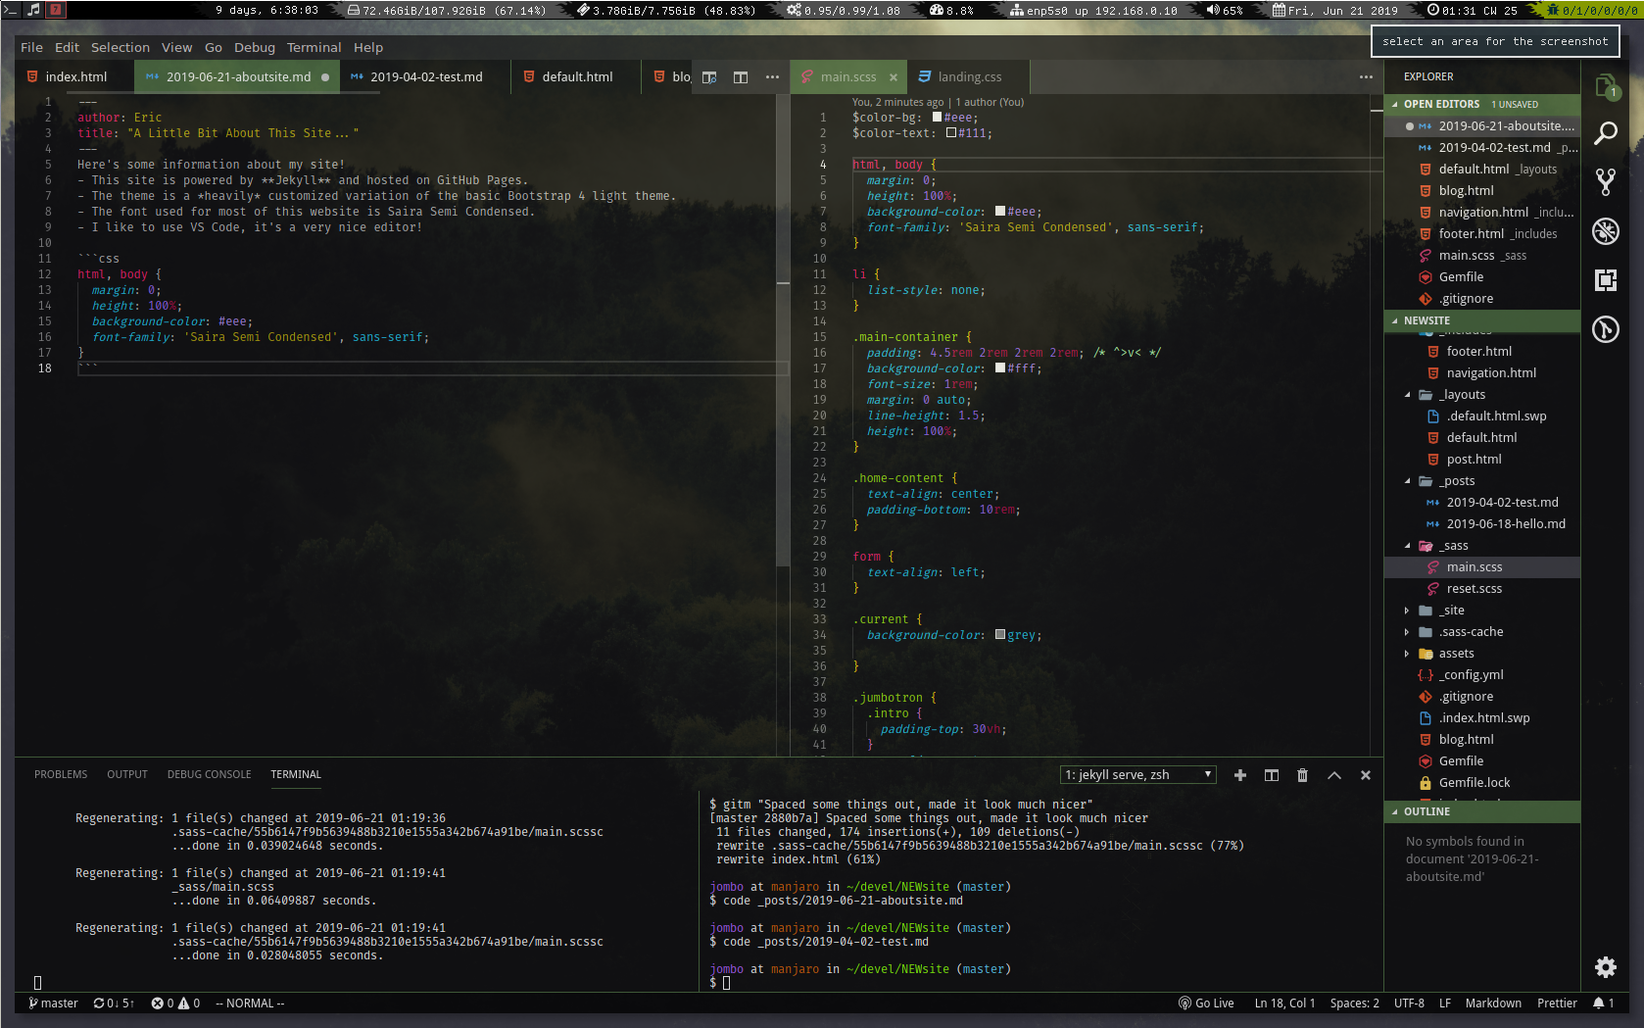
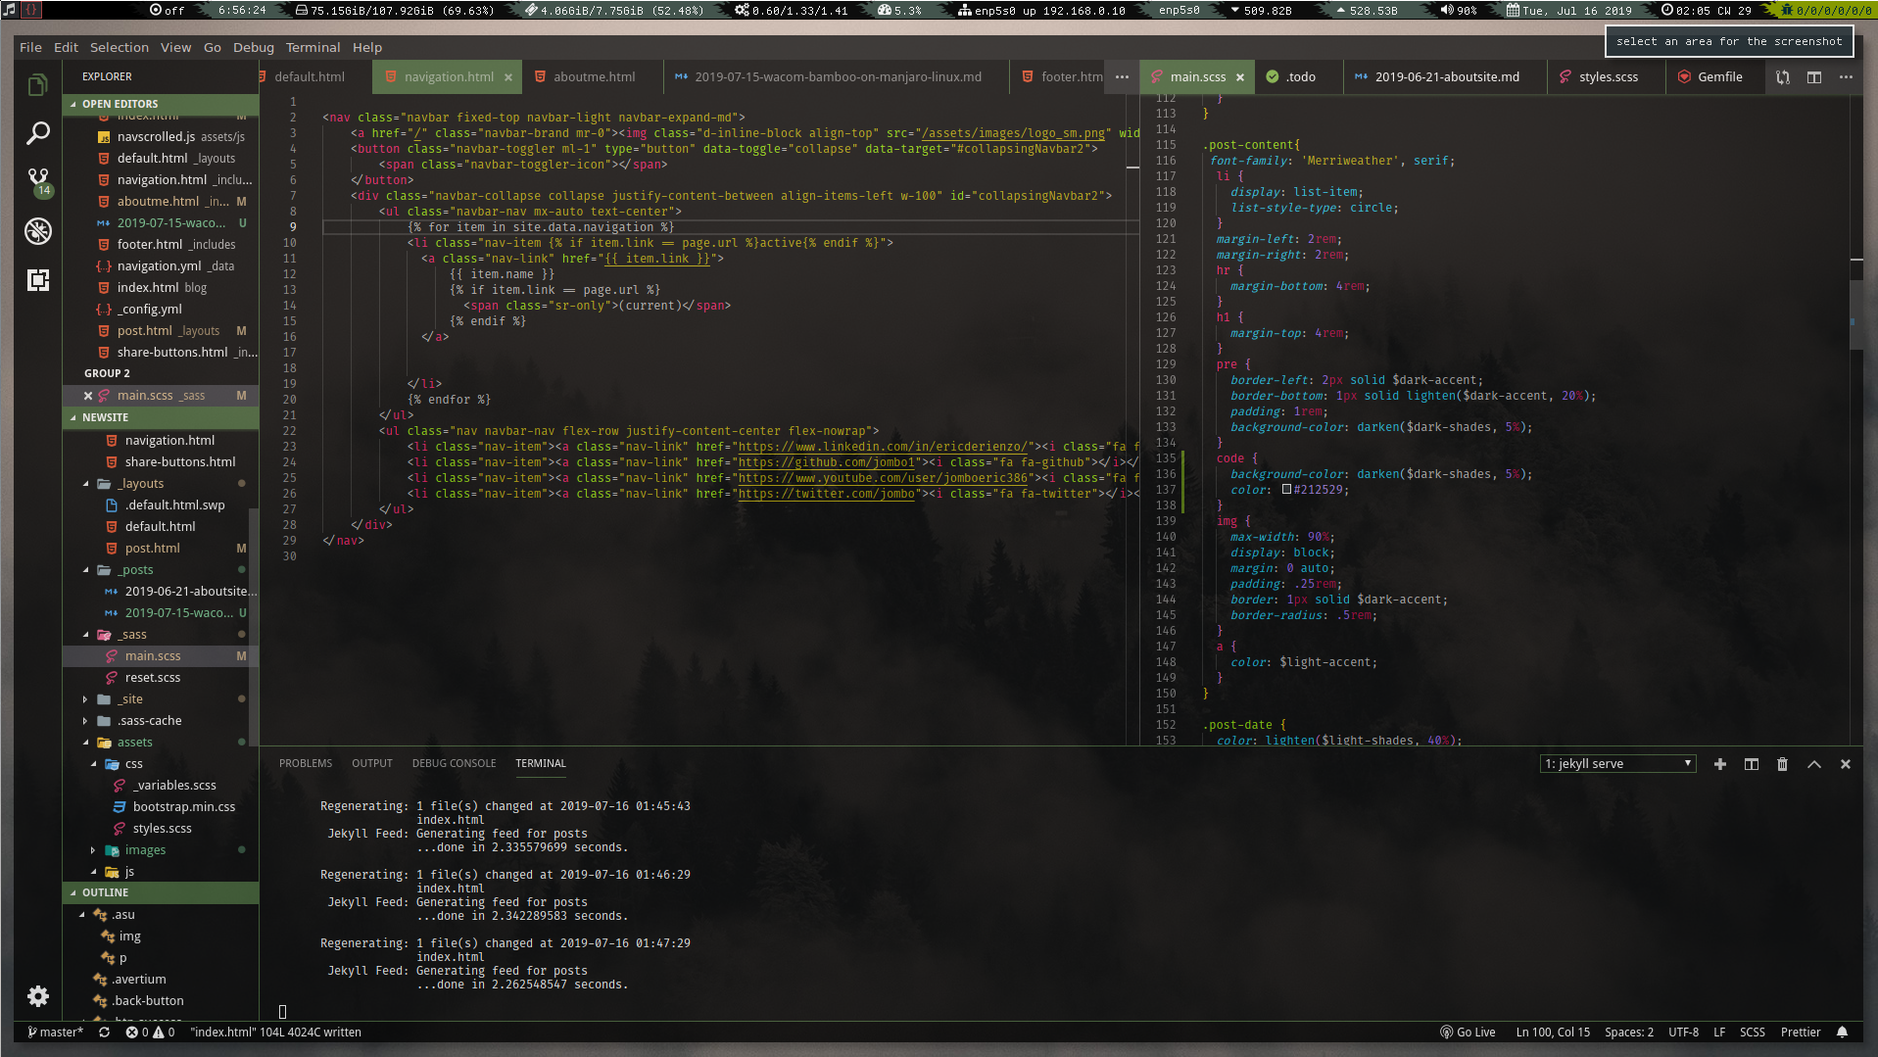
Added blog post, changed my title

diff --git a/_site/2019/07/15/wacom-bamboo-on-manjaro-linux.html b/_site/2019/07/15/wacom-bamboo-on-manjaro-linux.html
@@ -2,7 +2,7 @@
 <html lang="en">
 <head>
   <meta charset="UTF-8" name="viewport" content="width=device-width, initial-scale=1">
-  <title>A Little Bit About This Site...</title>
+  <title>Configuring Wacom Tablets on Manjaro i3 Linux</title>
   <link rel="shortcut icon" href="/assets/images/favicon.ico" type="image/x-icon">
   <link rel="icon" href="/assets/images/favicon.ico" type="image/x-icon">
   <link href="https://fonts.googleapis.com/css?family=Saira+Semi+Condensed|Merriweather&display=swap" rel="stylesheet"> 
@@ -11,20 +11,20 @@
   <link rel="stylesheet" type="text/css" href="/assets/css/styles.css">
   <link type="application/atom+xml" rel="alternate" href="http://localhost:4000/feed.xml" title="NEWsite" />
   <!-- Begin Jekyll SEO tag v2.5.0 -->
-<title>A Little Bit About This Site… | NEWsite</title>
+<title>Configuring Wacom Tablets on Manjaro i3 Linux | NEWsite</title>
 <meta name="generator" content="Jekyll v3.8.5" />
-<meta property="og:title" content="A Little Bit About This Site…" />
+<meta property="og:title" content="Configuring Wacom Tablets on Manjaro i3 Linux" />
 <meta name="author" content="Eric" />
 <meta property="og:locale" content="en_US" />
-<meta name="description" content="As an introduction to having the website up, here’s some information about this site!" />
-<meta property="og:description" content="As an introduction to having the website up, here’s some information about this site!" />
-<link rel="canonical" href="http://localhost:4000/2019/06/21/aboutsite.html" />
-<meta property="og:url" content="http://localhost:4000/2019/06/21/aboutsite.html" />
+<meta name="description" content="For anyone who loves digital painting and Linux, it can be quite disheartening knowing neither Wacom or Adobe have official Linux support. Fear not however, with just a little bit of configuration you can have the perfect setup going." />
+<meta property="og:description" content="For anyone who loves digital painting and Linux, it can be quite disheartening knowing neither Wacom or Adobe have official Linux support. Fear not however, with just a little bit of configuration you can have the perfect setup going." />
+<link rel="canonical" href="http://localhost:4000/2019/07/15/wacom-bamboo-on-manjaro-linux.html" />
+<meta property="og:url" content="http://localhost:4000/2019/07/15/wacom-bamboo-on-manjaro-linux.html" />
 <meta property="og:site_name" content="NEWsite" />
 <meta property="og:type" content="article" />
-<meta property="article:published_time" content="2019-06-21T00:00:00-07:00" />
+<meta property="article:published_time" content="2019-07-15T00:00:00-07:00" />
 <script type="application/ld+json">
-{"author":{"@type":"Person","name":"Eric"},"description":"As an introduction to having the website up, here’s some information about this site!","@type":"BlogPosting","dateModified":"2019-06-21T00:00:00-07:00","datePublished":"2019-06-21T00:00:00-07:00","headline":"A Little Bit About This Site…","url":"http://localhost:4000/2019/06/21/aboutsite.html","mainEntityOfPage":{"@type":"WebPage","@id":"http://localhost:4000/2019/06/21/aboutsite.html"},"@context":"http://schema.org"}</script>
+{"author":{"@type":"Person","name":"Eric"},"description":"For anyone who loves digital painting and Linux, it can be quite disheartening knowing neither Wacom or Adobe have official Linux support. Fear not however, with just a little bit of configuration you can have the perfect setup going.","@type":"BlogPosting","dateModified":"2019-07-15T00:00:00-07:00","datePublished":"2019-07-15T00:00:00-07:00","headline":"Configuring Wacom Tablets on Manjaro i3 Linux","url":"http://localhost:4000/2019/07/15/wacom-bamboo-on-manjaro-linux.html","mainEntityOfPage":{"@type":"WebPage","@id":"http://localhost:4000/2019/07/15/wacom-bamboo-on-manjaro-linux.html"},"@context":"http://schema.org"}</script>
 <!-- End Jekyll SEO tag -->
 
 </head>
@@ -70,35 +70,53 @@
     <div class="row justify-content-center">
   <div class="col-md-8 main-container">
     <div class="post-content">
-      <h1>A Little Bit About This Site...</h1>
+      <h1>Configuring Wacom Tablets on Manjaro i3 Linux</h1>
       <hr />
 
-      <p>As an introduction to having the website up, here’s some information about this site!</p>
+      <p>For anyone who loves digital painting and Linux, it can be quite disheartening knowing neither Wacom or Adobe have official Linux support. Fear not however, with just a little bit of configuration you can have the perfect setup going.</p>
 
-<ul>
-  <li>This site is powered by <a href="https://jekyllrb.com/">Jekyll</a> and hosted on GitHub Pages.</li>
-  <li>This site uses a heavily customized Bootstrap 4 theme. Might upload later.</li>
-  <li>The font used for most of this website is <em>Saira Semi Condensed</em>. The blog section uses <em>Merriweather</em>.</li>
-  <li>I like to use VS Code.</li>
-</ul>
+<p>In this guide I will be using a Bamboo Pen CTL-460 on Manjaro i3 and Krita as the drawing software.</p>
+<h4 id="configuring-the-wacom-tablet">Configuring the Wacom tablet</h4>
+<p>Wacom tablets are configured using <code class="highlighter-rouge">xsetwacom</code>, which you get can get by installing <a href="https://www.archlinux.org/packages/extra/x86_64/xf86-input-wacom/">xf86-input-wacom</a>. You may need to restart your computer for it to work. To make sure your tablet is plugged in and recognized open the terminal and run</p>
+<div class="language-bash highlighter-rouge"><div class="highlight"><pre class="highlight"><code>xsetwacom <span class="nt">--list</span> devices
+</code></pre></div></div>
+<p>Your output should look something like this:</p>
+<div class="highlighter-rouge"><div class="highlight"><pre class="highlight"><code>Wacom Bamboo Pen Pen stylus     	id: 8	  type: STYLUS    
+Wacom Bamboo Pen Pen eraser     	id: 14	type: ERASER  
+</code></pre></div></div>
+<p>Here we see the name of the devices, the id, and the types <code class="highlighter-rouge">STYLUS</code> and <code class="highlighter-rouge">ERASER</code>. Both will need to be configured to get the pen working properly.</p>
 
-<h4 id="heres-a-screenshot-of-my-development-environment">Here’s a screenshot of my development environment:</h4>
-<p><a href="/assets/images/screeny.png"><img src="/assets/images/screeny.png" alt="Screenshot" title="Screenshot" /></a></p>
+<p>For those with dual monitor setups you’ll want to confine your tablet area to a single monitor. You can do this by entering</p>
+<div class="highlighter-rouge"><div class="highlight"><pre class="highlight"><code>xsetwacom set "[name]" MapToOutput [monitor]
+</code></pre></div></div>
+<p>For example, my commands were</p>
+<div class="highlighter-rouge"><div class="highlight"><pre class="highlight"><code>xsetwacom set "Wacom Bamboo Pen Pen stylus" MapToOutput DVI-0
+xsetwacom set "Wacom Bamboo Pen Pen eraser" MapToOutput DVI-0
+</code></pre></div></div>
+<p>If you don’t know your monitors’ names, use <code class="highlighter-rouge">xrandr</code> to find out.</p>
 
-<p>More posts to come!</p>
+<p>Whatever settings you make won’t persist upon restart, so I recommend creating a shell script with all your configurations, then adding it to <code class="highlighter-rouge">~/.xprofile</code> or whatever your autostart script is. In my case I just put the above 2 configuration lines in a file called <code class="highlighter-rouge">setwacom.sh</code>, then set execute permissions on the script with <code class="highlighter-rouge">chmod u+x ~/setwacom.sh</code> and then added “<code class="highlighter-rouge">~/setwacom.sh &amp;</code>” to the file <code class="highlighter-rouge">~/.xprofile</code> (I had to create this file since it’s not there by default).</p>
+
+<p>Use <code class="highlighter-rouge">xsetwacom get [id] all</code> to list all configurable settings for that device.</p>
+
+<p>For more information on configuring your tablet see the <a href="https://wiki.archlinux.org/index.php/Wacom_tablet">Arch Wiki article</a> on it.</p>
+
+<p>The next article will be about how I set up Krita for digital painting.</p>
+
+<p><a href="/assets/images/drawing.png"><img src="/assets/images/drawing.png" alt="Krita Drawing" title="Krita Drawing" /></a></p>
 
 
       <hr />
     </div>
 
-    <h5>Posted 21 Jun 2019</h5>
+    <h5>Posted 15 Jul 2019</h5>
 
     <div class="sharebuttons">
     <div>
       <h5 class="sharetitle">Share this:</h5>
     </div>
     <div class="reddit">
-      <a href="http://www.reddit.com/submit?url=http://localhost:4000/2019/06/21/aboutsite.html&title=A%20Little%20Bit%20About%20This%20Site..." 
+      <a href="http://www.reddit.com/submit?url=http://localhost:4000/2019/07/15/wacom-bamboo-on-manjaro-linux.html&title=Configuring%20Wacom%20Tablets%20on%20Manjaro%20i3%20Linux" 
         rel="nofollow" 
         target="_blank"
         title="Share on Reddit">
@@ -106,14 +124,14 @@
       </a>
     </div>
     <div class="googleplus">
-      <a href="https://plus.google.com/share?url=http://localhost:4000/2019/06/21/aboutsite.html" 
+      <a href="https://plus.google.com/share?url=http://localhost:4000/2019/07/15/wacom-bamboo-on-manjaro-linux.html" 
         rel="nofollow" target="_blank" 
         title="Share on Google+">
         <svg role="img" viewBox="0 0 24 24" xmlns="http://www.w3.org/2000/svg"><title>Google+ icon</title><path d="M7.635 10.909v2.619h4.335c-.173 1.125-1.31 3.295-4.331 3.295-2.604 0-4.731-2.16-4.731-4.823 0-2.662 2.122-4.822 4.728-4.822 1.485 0 2.479.633 3.045 1.178l2.073-1.994c-1.33-1.245-3.056-1.995-5.115-1.995C3.412 4.365 0 7.785 0 12s3.414 7.635 7.635 7.635c4.41 0 7.332-3.098 7.332-7.461 0-.501-.054-.885-.12-1.265H7.635zm16.365 0h-2.183V8.726h-2.183v2.183h-2.182v2.181h2.184v2.184h2.189V13.09H24"/></svg>
       </a>
     </div>
     <div class="twitter">
-      <a href="https://twitter.com/intent/tweet?via=jombo&url=http://localhost:4000/2019/06/21/aboutsite.html&text=A%20Little%20Bit%20About%20This%20Site..." 
+      <a href="https://twitter.com/intent/tweet?via=jombo&url=http://localhost:4000/2019/07/15/wacom-bamboo-on-manjaro-linux.html&text=Configuring%20Wacom%20Tablets%20on%20Manjaro%20i3%20Linux" 
         rel="nofollow" 
         target="_blank"
         title="Share on Twitter">
@@ -121,7 +139,7 @@
       </a>
     </div>
     <div class="linkedin">
-      <a href="https://www.linkedin.com/shareArticle?mini=true&url=http://localhost:4000/2019/06/21/aboutsite.html&title=A%20Little%20Bit%20About%20This%20Site..." 
+      <a href="https://www.linkedin.com/shareArticle?mini=true&url=http://localhost:4000/2019/07/15/wacom-bamboo-on-manjaro-linux.html&title=Configuring%20Wacom%20Tablets%20on%20Manjaro%20i3%20Linux" 
         rel="nofollow" 
         target="_blank"
         title="Share on LinkedIn">
@@ -129,7 +147,7 @@
       </a>
     </div>
     <div class="facebook">
-      <a href="https://facebook.com/sharer.php?u=http://localhost:4000/2019/06/21/aboutsite.html" 
+      <a href="https://facebook.com/sharer.php?u=http://localhost:4000/2019/07/15/wacom-bamboo-on-manjaro-linux.html" 
         rel="nofollow" 
         target="_blank" 
         title="Share on Facebook">

diff --git a/_site/index.html b/_site/index.html
@@ -15,13 +15,13 @@
 <meta name="generator" content="Jekyll v3.8.5" />
 <meta property="og:title" content="Eric DeRienzo’s Homepage" />
 <meta property="og:locale" content="en_US" />
-<meta name="description" content="spankin new" />
-<meta property="og:description" content="spankin new" />
+<meta name="description" content="Webpage of Eric DeRienzo" />
+<meta property="og:description" content="Webpage of Eric DeRienzo" />
 <link rel="canonical" href="http://localhost:4000/" />
 <meta property="og:url" content="http://localhost:4000/" />
 <meta property="og:site_name" content="NEWsite" />
 <script type="application/ld+json">
-{"description":"spankin new","@type":"WebSite","url":"http://localhost:4000/","name":"NEWsite","headline":"Eric DeRienzo’s Homepage","@context":"http://schema.org"}</script>
+{"description":"Webpage of Eric DeRienzo","@type":"WebSite","name":"NEWsite","headline":"Eric DeRienzo’s Homepage","url":"http://localhost:4000/","@context":"http://schema.org"}</script>
 <!-- End Jekyll SEO tag -->
 
 </head>
@@ -83,7 +83,7 @@
         <h4>Eric DeRienzo</h4>
         <h6>me@ericderienzo.com</h6>
         <p>
-          I am a fella residing in Phoenix currently working as a security analyst. In my spare time I'm usually drawing, learning web development, or practicing Japanese. You can often find me on various websites under my online alias "Jombo".
+          I am a fella residing in Phoenix currently working as a security engineer. In my spare time I'm usually drawing, learning web development, or practicing Japanese. You can often find me on various websites under my online alias "Jombo".
           <br />
         </p>
 
@@ -101,8 +101,8 @@
     <div class="row">
       <div class="col-lg-6 avertium">
         <img src="/assets/images/avertium.png" alt="avertium">
-        <h4>Security Analyst</h4>
-        <p>I detect, investigate, and respond to cyber attacks and vulnerabilities within various companies</p>
+        <h4>Security Engineer</h4>
+        <p>I detect, investigate, and respond to cyber attacks and vulnerabilities within various companies.</p>
       </div>
       <div class="col-lg-6 asu">
         <img src="/assets/images/asu.png" alt="asu">
@@ -120,21 +120,21 @@
         <img src="assets/images/projects_sft.jpg" alt="Secure File Transmission">
         <h4>Secure File Transmission</h4>
         <p>A tool that allows secure communication between two users through AES-128-CBC encryption. Uses Java's cryptographic API.</p>
-        <a href="">View Source</a>
+        <a href=""><i class="fa fa-folder-open"></i> View Source</a>
       </div>
       <div class="col-lg-4">
         <img src="assets/images/projects_fakenews.jpg" alt="Analysis of Fake News">
         <h4>Analysis of the Impact of Fake News on Twitter
         </h4>
         <p>A webscraping project that collected tweet data from various news sources using Python and BeautifulSoup 4.</p>
-        <a href="">View Source</a>
+        <a href=""><i class="fa fa-folder-open"></i> View Source</a>
       </div>
       <div class="col-lg-4">
         <img src="assets/images/projects_yelpcamp.png" alt="YelpCamp">
         <h4>YelpCamp</h4>
         <p>A basic camp portfolio made with Express.js and MongoDB. Uses RESTful routes and supports user registration, commenting, and flash messages.</p>
-        <a href="">View Source</a>
-        <a href="https://still-tor-66309.herokuapp.com/">Demo</a>
+        <a href=""><i class="fa fa-folder-open"></i> View Source</a>
+        <a href="https://still-tor-66309.herokuapp.com/"><i class="fa fa-desktop"></i> Demo</a>
       </div>
     </div>
 

diff --git a/index.html b/index.html
@@ -18,8 +18,8 @@ title: Eric DeRienzo's Homepage
     <div class="row">
       <div class="col-lg-6 avertium">
         <img src="/assets/images/avertium.png" alt="avertium">
-        <h4>Security Analyst</h4>
-        <p>I detect, investigate, and respond to cyber attacks and vulnerabilities within various companies</p>
+        <h4>Security Engineer</h4>
+        <p>I detect, investigate, and respond to cyber attacks and vulnerabilities within various companies.</p>
       </div>
       <div class="col-lg-6 asu">
         <img src="/assets/images/asu.png" alt="asu">
@@ -37,21 +37,21 @@ title: Eric DeRienzo's Homepage
         <img src="assets/images/projects_sft.jpg" alt="Secure File Transmission">
         <h4>Secure File Transmission</h4>
         <p>A tool that allows secure communication between two users through AES-128-CBC encryption. Uses Java's cryptographic API.</p>
-        <a href="">View Source</a>
+        <a href=""><i class="fa fa-folder-open"></i> View Source</a>
       </div>
       <div class="col-lg-4">
         <img src="assets/images/projects_fakenews.jpg" alt="Analysis of Fake News">
         <h4>Analysis of the Impact of Fake News on Twitter
         </h4>
         <p>A webscraping project that collected tweet data from various news sources using Python and BeautifulSoup 4.</p>
-        <a href="">View Source</a>
+        <a href=""><i class="fa fa-folder-open"></i> View Source</a>
       </div>
       <div class="col-lg-4">
         <img src="assets/images/projects_yelpcamp.png" alt="YelpCamp">
         <h4>YelpCamp</h4>
         <p>A basic camp portfolio made with Express.js and MongoDB. Uses RESTful routes and supports user registration, commenting, and flash messages.</p>
-        <a href="">View Source</a>
-        <a href="https://still-tor-66309.herokuapp.com/">Demo</a>
+        <a href=""><i class="fa fa-folder-open"></i> View Source</a>
+        <a href="https://still-tor-66309.herokuapp.com/"><i class="fa fa-desktop"></i> Demo</a>
       </div>
     </div>
 

diff --git a/_site/blog/index.html b/_site/blog/index.html
@@ -15,13 +15,13 @@
 <meta name="generator" content="Jekyll v3.8.5" />
 <meta property="og:title" content="Blog Eric DeRienzo" />
 <meta property="og:locale" content="en_US" />
-<meta name="description" content="spankin new" />
-<meta property="og:description" content="spankin new" />
+<meta name="description" content="Webpage of Eric DeRienzo" />
+<meta property="og:description" content="Webpage of Eric DeRienzo" />
 <link rel="canonical" href="http://localhost:4000/blog/" />
 <meta property="og:url" content="http://localhost:4000/blog/" />
 <meta property="og:site_name" content="NEWsite" />
 <script type="application/ld+json">
-{"description":"spankin new","@type":"WebPage","url":"http://localhost:4000/blog/","headline":"Blog Eric DeRienzo","@context":"http://schema.org"}</script>
+{"description":"Webpage of Eric DeRienzo","@type":"WebPage","headline":"Blog Eric DeRienzo","url":"http://localhost:4000/blog/","@context":"http://schema.org"}</script>
 <!-- End Jekyll SEO tag -->
 
 </head>
@@ -72,6 +72,23 @@
     <hr />
 
     <ul>
+      
+      <li>
+        <br />
+        <h2>
+          <a href="/2019/07/15/wacom-bamboo-on-manjaro-linux.html">Configuring Wacom Tablets on Manjaro i3 Linux</a>
+        </h2>
+        <h5 class="post-date">Posted 15 Jul 2019</h5>
+        <div class="post-content">
+          <p><p>For anyone who loves digital painting and Linux, it can be quite disheartening knowing neither Wacom or Adobe have official Linux support. Fear not however, with just a little bit of configuration you can have the perfect setup going.</p>
+
+</p>
+        </div>
+        <p>
+          <u><a href="/2019/07/15/wacom-bamboo-on-manjaro-linux.html">View post</a></u>
+        </p>
+      </li>
+      <br />
       
       <li>
         <br />

diff --git a/_includes/aboutme.html b/_includes/aboutme.html
@@ -6,7 +6,7 @@
         <h4>Eric DeRienzo</h4>
         <h6>me@ericderienzo.com</h6>
         <p>
-          I am a fella residing in Phoenix currently working as a security analyst. In my spare time I'm usually drawing, learning web development, or practicing Japanese. You can often find me on various websites under my online alias "Jombo".
+          I am a fella residing in Phoenix currently working as a security engineer. In my spare time I'm usually drawing, learning web development, or practicing Japanese. You can often find me on various websites under my online alias "Jombo".
           <br />
         </p>
 

diff --git a/_site/assets/css/styles.css b/_site/assets/css/styles.css
@@ -33,6 +33,7 @@ a:hover { color: #9D524C; }
 .post-content hr { margin-bottom: 4rem; }
 .post-content h1 { margin-top: 4rem; }
 .post-content pre { border-left: 2px solid #8797A9; border-bottom: 1px solid #c2cad4; padding: 1rem; background-color: #f1eaed; }
+.post-content code { background-color: #f1eaed; color: #212529; }
 .post-content img { max-width: 90%; display: block; margin: 0 auto; padding: .25rem; border: 1px solid #8797A9; border-radius: .5rem; }
 .post-content a { color: #9D524C; }
 

diff --git a/_sass/main.scss b/_sass/main.scss
@@ -132,6 +132,10 @@ a {
     padding: 1rem;
     background-color: darken($dark-shades, 5%);
   }
+  code {
+    background-color: darken($dark-shades, 5%);
+    color: #212529;
+  }
   img {
     max-width: 90%;
     display: block;

diff --git a/_layouts/post.html b/_layouts/post.html
@@ -13,6 +13,8 @@ layout: default
       <hr />
     </div>
 
+    <h5>Posted {{ page.date | date_to_string }}</h5>
+
     {% include share-buttons.html %}
 
     <div class="back-button">

diff --git a/_posts/2019-07-15-wacom-bamboo-on-manjaro-linux.md b/_posts/2019-07-15-wacom-bamboo-on-manjaro-linux.md
@@ -1,0 +1,39 @@
+---
+author: Eric
+title: "Configuring Wacom Tablets on Manjaro i3 Linux"
+---
+For anyone who loves digital painting and Linux, it can be quite disheartening knowing neither Wacom or Adobe have official Linux support. Fear not however, with just a little bit of configuration you can have the perfect setup going.
+
+In this guide I will be using a Bamboo Pen CTL-460 on Manjaro i3 and Krita as the drawing software.
+#### Configuring the Wacom tablet
+Wacom tablets are configured using `xsetwacom`, which you get can get by installing [xf86-input-wacom](https://www.archlinux.org/packages/extra/x86_64/xf86-input-wacom/). You may need to restart your computer for it to work. To make sure your tablet is plugged in and recognized open the terminal and run
+```bash
+xsetwacom --list devices
+```
+Your output should look something like this:
+```
+Wacom Bamboo Pen Pen stylus     	id: 8	  type: STYLUS    
+Wacom Bamboo Pen Pen eraser     	id: 14	type: ERASER  
+```
+Here we see the name of the devices, the id, and the types `STYLUS` and `ERASER`. Both will need to be configured to get the pen working properly.
+
+For those with dual monitor setups you'll want to confine your tablet area to a single monitor. You can do this by entering
+```
+xsetwacom set "[name]" MapToOutput [monitor]
+```
+For example, my commands were
+```
+xsetwacom set "Wacom Bamboo Pen Pen stylus" MapToOutput DVI-0
+xsetwacom set "Wacom Bamboo Pen Pen eraser" MapToOutput DVI-0
+```
+If you don't know your monitors' names, use `xrandr` to find out.
+
+Whatever settings you make won't persist upon restart, so I recommend creating a shell script with all your configurations, then adding it to `~/.xprofile` or whatever your autostart script is. In my case I just put the above 2 configuration lines in a file called `setwacom.sh`, then set execute permissions on the script with `chmod u+x ~/setwacom.sh` and then added "`~/setwacom.sh &`" to the file `~/.xprofile` (I had to create this file since it's not there by default).
+
+Use `xsetwacom get [id] all` to list all configurable settings for that device.
+
+For more information on configuring your tablet see the [Arch Wiki article](https://wiki.archlinux.org/index.php/Wacom_tablet) on it.
+
+The next article will be about how I set up Krita for digital painting.
+
+[![Krita Drawing](/assets/images/drawing.png "Krita Drawing")](/assets/images/drawing.png)
